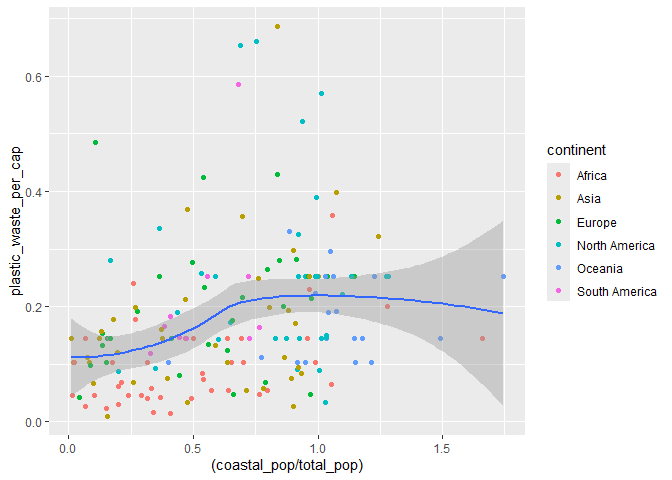
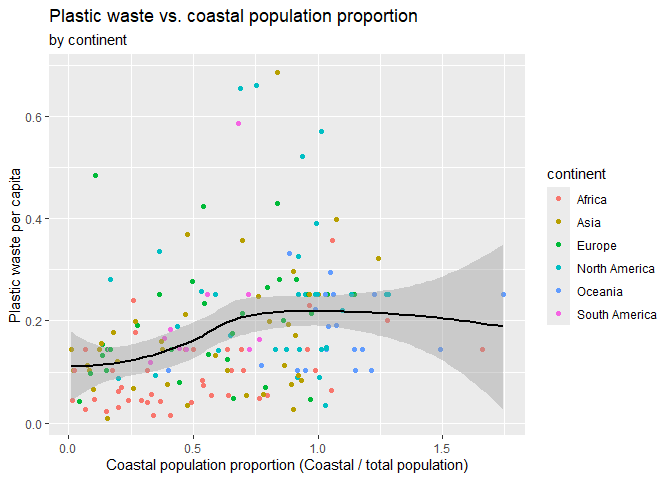
5.1 adding labels and changing the color of the line to black

diff --git a/lab-02.md b/lab-02.md
@@ -294,7 +294,13 @@ ggplot(
   ) +
   geom_point (aes(color = continent)) +
   
-  geom_smooth ()
+  geom_smooth (color = "black") +
+  labs(
+    title = "Plastic waste vs. coastal population proportion",
+    subtitle = "by continent",
+    x = "Coastal population proportion (Coastal / total population)", y = "Plastic waste per capita",
+    
+  )
 ```
 
     ## `geom_smooth()` using method = 'loess' and formula = 'y ~ x'
